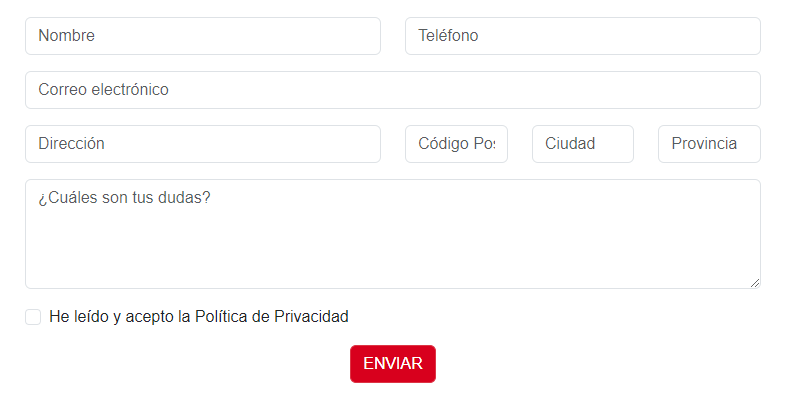
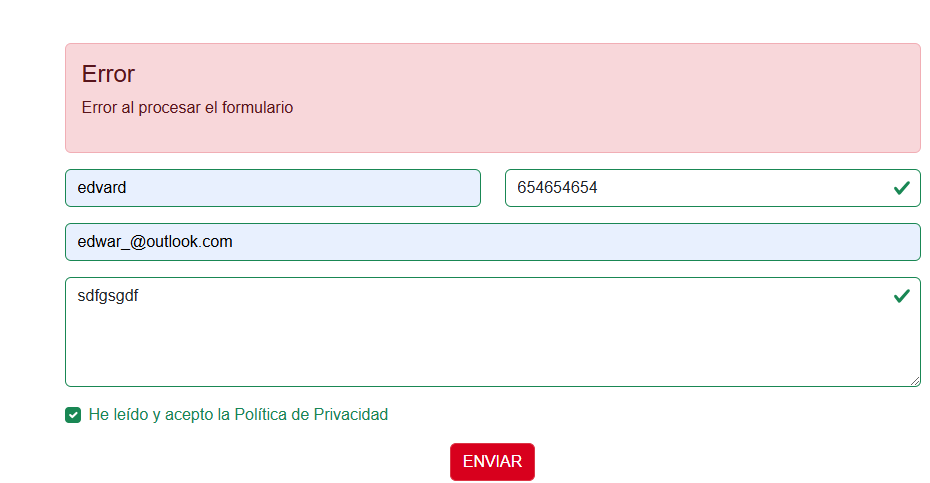
Agent step completed: Remove address field from contact form and related components

diff --git a/templates/index.html b/templates/index.html
@@ -1,160 +1,4 @@
-{% extends "base.html" %}
 
-{% block content %}
-<!-- Hero Section -->
-<section id="home"              class="hero-section min-vh-100">
-    <div class="container-fluid">
-        <div class="row align-items-center">
-            <div class="col-12 col-md-6 text-start text-white">
-                <h1 class="text-end mb-4 fs-1">KIT CONSULTING</h1>
-                <p class="text-end mb-4">Saca todo el potencial de tu compañía<br>con las ayudas de Kit Consulting</p>
-                <div class="bg-danger2 p-4 mt-4">
-                    <p class="mb-0 text-end">El kit consulting te trata de un programa de ayudas del<br>
-                    Gobierno de España que permite a pymes como la tuya<br>
-                    diseñar la hoja de ruta para su transformación digital.</p>
-                </div>
-            </div>
-            <div class="col-12 col-md-6 text-center text-white">
-            
-            </div>
-        </div>
-    </div>
-</section>
-
-<!-- What is KIT CONSULTING Section -->
-<section id="what-is"           class="py-5 my-5">
-    <div class="container">
-        <div class="row">
-            <div class="col-lg-6">
-                <h2 class="text-danger mb-4">¿QUÉ ES EL KIT CONSULTING?</h2>
-                <h6 class="text-uppercase mb-4">PROGRAMA DE AYUDAS</h6>
-                <p>Es un plan que distribuirá 500 millones de euros hasta diciembre de 2024 de fondos europeos a pequeñas y medianas empresas (entre 10 y 249 empleados).</p>
-                <p>Este plan permitirá acceder a servicios de consultoría digital en áreas como inteligencia artificial, análisis de datos o ciberseguridad.</p>
-                <p>Desde la digitalización de procesos hasta la implantación de la seguridad y la digitalización, te asesoramos y realizamos todo el trámite de la solicitud para que así puedas beneficiarte de las subvenciones.</p>
-            </div>
-            <div class="col-lg-6 position-relative">
-                <img src="static/disenyo/IMG/02-KIT-CONSULTING.webp" alt="Kit Consulting" class="img-fluid" id="decoDer">
-            </div>
-        </div>
-    </div>
-</section>
-
-<!-- Segments Section -->
-<section id="segments" class="container" >
-    <div style="background: url(static/disenyo/IMG/07-DECORACIÓN-IZQDA.webp) no-repeat top left; " class="bg-light py-5 ">
-        <!-- <img id="decoIzq" src="static/disenyo/IMG/07-DECORACIÓN-IZQDA.webp" class="img-fluid" alt=""> -->
-    <div class="container" style="background-color: #ffffff00 !important;" >
-        <h2 class="text-danger text-center mb-4 font-weight-extra-2-bold">¿DE QUÉ IMPORTE TE PODRÁS BENEFICIAR?</h2>
-        <h6 class="text-uppercase text-center mb-4">SEGMENTOS</h6>
-        
-        <div class="row justify-content-center" >
-            <div class="col-md-4">
-                <div class="caja text-center mb-4" style="height: 10 rem !important;">
-                    <div class="p-0 card-body d-flex justify-content-between align-items-center flex-column">
-                        <h5 class="mx-3 mt-5">SEGMENTO A</h5>
-                        <p class="m-3">Entre 10 y menos de 50 empleados</p>
-                        <h3 class="bg-danger text-light container-fluid">12.000€</h3>
-                    </div>
-                </div>
-            </div>
-            <div class="col-md-4">
-                <div class="caja text-center mb-4" style="height: 10 rem;">
-                    <div class="p-0 card-body d-flex justify-content-between align-items-center flex-column">
-                        <h5 class="mx-3 mt-5">SEGMENTO B</h5>
-                        <p class="m-3">Entre 50 y menos de 100 empleados</p>
-                        <h3 class="bg-danger text-light container-fluid">18.000€</h3>
-                    </div>
-                </div>
-            </div>
-            <div class="col-md-4">
-                <div class="caja text-center mb-4" style="height: 10 rem;">
-                    <div class="p-0 card-body d-flex justify-content-between align-items-center flex-column">
-                        <h5 class="mx-3 mt-5">SEGMENTO C</h5>
-                        <p class="m-3">Entre 100 y menos de 250 empleados</p>
-                        <h3 class="bg-danger text-light container-fluid">24.000€</h3>
-                    </div>
-                </div>
-            </div>
-        </div>
-    </div>
-        </div>
-</section>
-
-<!-- Solutions Section -->
-<section id="solutions"         class="" >
-    <div class="container py-5">
-        <h2 class="text-danger text-center mb-4 font-weight-extra-2-bold">¿QUÉ SOLUCIONES OFRECEMOS?</h2>
-        <h6 class="text-uppercase text-center mb-4">SERVICIOS A TU DISPOSICIÓN</h6>
-        
-        <div class="row">
-            <div class="col-md-4 ">
-                <div class="card bg-base service-card text-center mb-4 " style="height: 30rem;">
-                    <div class="bg-base card-body">
-                        <i data-feather="cpu" class="service-icon mb-3 mt-3 mb-1"></i>
-                        <h5 class="text-center font-weight-extra-bold mt-1 mb-3">SERVICIO DE ASESORAMIENTO EN </h5>
-                        <h4 class="text-danger text-center font-weight-extra-2-bold mt-1 mb-3 ">INTELIGENCIA ARTIFICIAL</h4>
-                    </div>
-                    <img src="static/disenyo/IMG/04-IA.webp" alt="" aria-label="" class="img-fluid"/>
-                </div>
-                <p class="text-center font-weight-extra-2-bold text-uppercase">HASTA 6.000€</p>
-            </div>
-
-            <div class="col-md-4 ">
-                <div class="card bg-base service-card text-center mb-4 " style="height: 30rem;">
-                    <div class="bg-base card-body">
-                        <i data-feather="shopping-cart" class="service-icon mb-3 mt-3 mb-1"></i>
-                        <h5 class="text-center font-weight-extra-bold mt-1 mb-3">SERVICIO DE ASESORAMIENTO EN </h5>
-                        <h4 class="text-danger text-center font-weight-extra-2-bold mt-1 mb-3 ">VENTAS DIGITALES</h4>
-                    </div>
-                    <img src="static/disenyo/IMG/05-VENTAS.webp" alt="" aria-label="" class="img-fluid"/>
-                </div>
-                <p class="text-center font-weight-extra-2-bold text-uppercase">HASTA 6.000€</p>    
-            </div>
-
-            <div class="col-md-4 ">
-                <div class="card bg-base service-card text-center mb-4 " style="height: 30rem;">
-                    <div class="bg-base card-body">
-                        <i data-feather="trending-up" class="service-icon mb-3"></i>
-                        <h5 class="text-center font-weight-extra-bold mt-3 mb-1">SERVICIO DE ASESORAMIENTO EN </h5>
-                        <h4 class="text-danger text-center font-weight-extra-2-bold mt-1 mb-3">SERVICIO DE ASESORAMIENTO EN</h4>
-                    </div>
-                    <img src="static/disenyo/IMG/06-ESTRATEGIA.webp" alt="" aria-label="" class="img-fluid"/>
-                </div>
-                <p class="text-center font-weight-extra-2-bold text-uppercase">HASTA 6.000€</p>
-            </div>
-        </div>
-    </div>
-</section>
-
-<!-- Requirements Section -->
-<section id="requirements"      class="py-5 bg-danger text-white ">
-    <div class="container">
-        <h2 class="text-center mb-4 font-weight-extra-2-bold">¿CUÁLES SON LOS REQUISITOS?</h2>
-        <h6 class="text-uppercase text-center mb-4 font-weight-extra-bold">SERVICIOS A TU DISPOSICIÓN</h6>
-        <p class="container text-center my-2 mb-4 pb-4 w-50 mx-auto"> Para acceder a estas ayudas, las pequeñas y medianas empresas solicitantes deberán 
-        cumplir con los requisitos mínimos establecidos en las bases del programa:
-        </p>
-        
-        <div class="row">
-            <div class="col-lg-6">
-                <ul class="list-unstyled">
-                    <li class="mb-5"><i data-feather="check-circle" class="me-3 check-circle-large"></i>Tener domicilio fiscal en territorio español</li>
-                    <li class="mb-5"><i data-feather="check-circle" class="me-3 check-circle-large"></i>Tener la consideración de pequeña y mediana empresa</li>
-                    <li class="mb-5"><i data-feather="check-circle" class="me-3 check-circle-large"></i>Estar inscrito en el censo de empresarios, profesionales y retenedores de la Agencia Tributaria</li>
-                    <li class="mb-5"><i data-feather="check-circle" class="me-3 check-circle-large"></i>No tener la consideración de empresa en crisis</li>
-                </ul>
-            </div>
-            <div class="col-lg-6">
-                <ul class="list-unstyled">
-                    <li class="mb-5"><i data-feather="check-circle" class="me-3 check-circle-large"></i>No estar sujeta a una orden de recuperación pendiente</li>
-                    <li class="mb-5"><i data-feather="check-circle" class="me-3 check-circle-large"></i>No estar incursa en ninguna de las prohibiciones</li>
-                    <li class="mb-5"><i data-feather="check-circle" class="me-3 check-circle-large"></i>No superar el límite de ayudas de mínimis</li>
-                    <li class="mb-5"><i data-feather="check-circle" class="me-3 check-circle-large"></i>Estar al corriente de las obligaciones tributarias y frente a la Seguridad Social</li>
-                </ul>
-            </div>
-        </div>
-    </div>
-</section>
 
 <!-- Contact Form Section -->
 <section id="contact"           class=" py-5">
@@ -181,7 +25,7 @@
                     </div>
                     <div class="form-check mb-3">
                         <input type="checkbox" class="form-check-input" id="privacyPolicy" name="privacyPolicy" required>
-                        <label class="form-check-label" for="privacyPolicy">He leído y acepto la Política de Privacidad</label>
+                        <label class="form-check-label" for="privacyPolicy">He leído y acepto la <a href="https://navegatel.org/politica-de-privacidad/" target="_blank" rel="nofollow" style="color:black;">Política de Privacidad</a></label>
                     </div>
                     <div class="text-center">
                         <button type="submit" class="btn btn-danger">ENVIAR</button>
@@ -192,25 +36,26 @@
     </div>
 </section>
 
+
 <!-- Footer Logos Section -->
 <section                        class="py-5 border-top" style="background-color: #f7f7f7 !important;">
     <h4 class="text-center mb-5 py-3 fs-6">Programa kit consulting cofinanciado por los fondos next generation (eu) del mecanismo de recuperación y resiliencia</h4>
     <div class="container">
         <div class="row align-items-center justify-content-center text-center">
             <div class="col-auto mb-4 mb-md-0">
-                <img src="static/disenyo/IMG/09-LOGO-KIT.webp" alt="Kit Consulting" height="90">
+                <img src="static/disenyo/IMG/09-LOGO-KIT.webp" alt="Kit Consulting Navegatel" height="90">
             </div>
             <div class="col-auto mb-4 mb-md-0">
-                <img src="static/disenyo/IMG/10-LOGO-UNION-EUROPEA.webp" alt="Kit Consulting" height="60">
+                <img src="static/disenyo/IMG/10-LOGO-UNION-EUROPEA.webp" alt="Unión Europea" height="60">
             </div>
             <div class="col-auto mb-4 mb-md-0">
-                <img src="static/disenyo/IMG/11-LOGO-GOBIERNO.webp" alt="European Union" height="60">
+                <img src="static/disenyo/IMG/11-LOGO-GOBIERNO.webp" alt="Gobierno de España" height="60">
             </div>
             <div class="col-auto mb-4 mb-md-0">
-                <img src="static/disenyo/IMG/12-LOGO-RED.ES.webp" alt="Government" height="60">
+                <img src="static/disenyo/IMG/12-LOGO-RED.ES.webp" alt="Red.es" height="60">
             </div>
             <div class="col-auto mb-4 mb-md-0">
-                <img src="static/disenyo/IMG/13-LOGO-PLAN.webp" alt="Government" height="60">
+                <img src="static/disenyo/IMG/13-LOGO-PLAN.webp" alt="Plan de recuperación y transformación" height="60">
             </div>
         </div>
     </div>

diff --git a/email_utils.py b/email_utils.py
@@ -112,10 +112,6 @@ def send_contact_form_notification(form_data):
             'nombre': form_data['nombre'],
             'email': form_data['email'],
             'telefono': form_data['telefono'],
-            'direccion': form_data['direccion'],
-            'codigoPostal': form_data['codigoPostal'],
-            'ciudad': form_data['ciudad'],
-            'provincia': form_data['provincia'],
             'dudas': form_data['dudas']
         }
         
